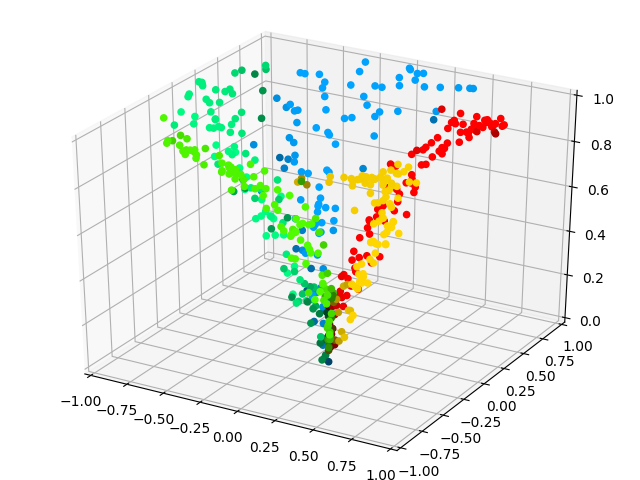
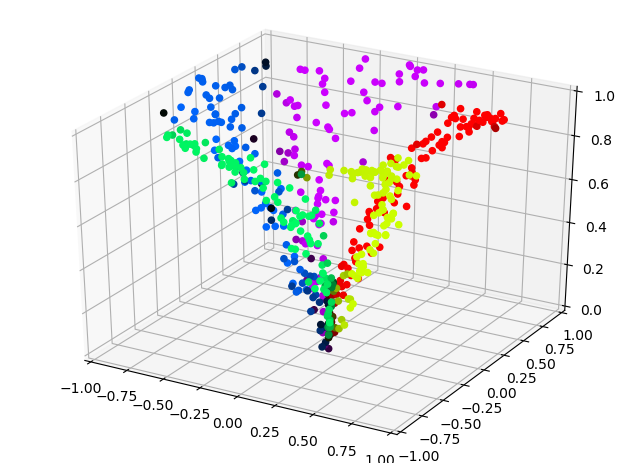
Update issue

diff --git a/App.py b/App.py
@@ -1,5 +1,4 @@
-# coding: utf-8
-# import numpy as np
+import numpy as np
 from Data import Data
 from TwoDenseOperations import TwoDenseOperations
 from TfSession import TfSession
@@ -14,9 +13,9 @@ class App:
     NUM_OF_DIMENSIONS = 3
 
     def __init__(self):
-        self.d = None # data manager
-        self.o = None # operations manager
-        self.t = None # tensorflow session manager
+        self.d = None  # data manager
+        self.o = None  # operations manager
+        self.t = None  # tensorflow session manager
 
     def init(self):
         """
@@ -27,7 +26,8 @@ class App:
                       batch_size=self.BATCH_SIZE)
 
         # オペレーション(計算グラフ)
-        self.o = TwoDenseOperations(input_size=self.NUM_OF_DIMENSIONS, hidden_unit_size=5, output_size=self.NUM_OF_CLASSES, learn_rate=1.0)
+        self.o = TwoDenseOperations(input_size=self.NUM_OF_DIMENSIONS, hidden_unit_size=5,
+                                    output_size=self.NUM_OF_CLASSES, learn_rate=1.0)
 
         # セッション
         self.t = TfSession(self.o)
@@ -47,7 +47,8 @@ class App:
             self.d.shuffle()
 
             if i == 0 or i % 10 == 0:
-                feed_dict = self.o.create_feed_dict(self.d.inputs[0:self.BATCH_SIZE], self.d.onehot_labels[0:self.BATCH_SIZE])
+                feed_dict = self.o.create_feed_dict(self.d.inputs[0:self.BATCH_SIZE],
+                                                    self.d.onehot_labels[0:self.BATCH_SIZE])
                 loss_value = self.t.calculate_loss_value(feed_dict)
                 print('loss value: {0:0.3f}'.format(loss_value))
 

diff --git a/Plotter.py b/Plotter.py
@@ -1,5 +1,4 @@
-# coding: utf-8
-# import numpy as np
+import numpy as np
 import matplotlib.pyplot as plt
 from mpl_toolkits.mplot3d import Axes3D
 import colorsys
@@ -36,9 +35,9 @@ class Plotter:
             for i in range(num_of_each_class_data):
                 index = j * num_of_each_class_data + i
                 if colorize:
-                    colors[j][i] = colorsys.hsv_to_rgb(j / num_of_classes * 0.7, 1, np.max(predict[index]))
+                    colors[j][i] = colorsys.hsv_to_rgb(j / num_of_classes, 1, predict[index][j])
                 else:
-                    colors[j][i] = colorsys.hsv_to_rgb(j / num_of_classes * 0.7, 1, 1)
+                    colors[j][i] = colorsys.hsv_to_rgb(j / num_of_classes, 1, 1)
 
         for index_classes in range(num_of_classes):
             s = index_classes * num_of_each_class_data

diff --git a/TwoDenseOperations.py b/TwoDenseOperations.py
@@ -1,5 +1,4 @@
-# coding: utf-8
-# import re
+import re
 import tensorflow as tf
 
 

diff --git a/README.md b/README.md
@@ -8,9 +8,9 @@
   * 3次元の非線形の(渦巻いている)データを乱数で作り、2層のNNで正しく分類できるかを試す  
 
 ### 正解データ
-* 緑がわかりづらいが、5つのカテゴリのデータがある。
+* 5つのカテゴリのデータがある。
 
-![GitHub Logo](https://raw.githubusercontent.com/shikitari/tensorflow_dense_example/master/corect.png)
+![GitHub Logo](https://raw.githubusercontent.com/shikitari/tensorflow_dense_example/master/correct.png)
 
 ### 推測データ
 
